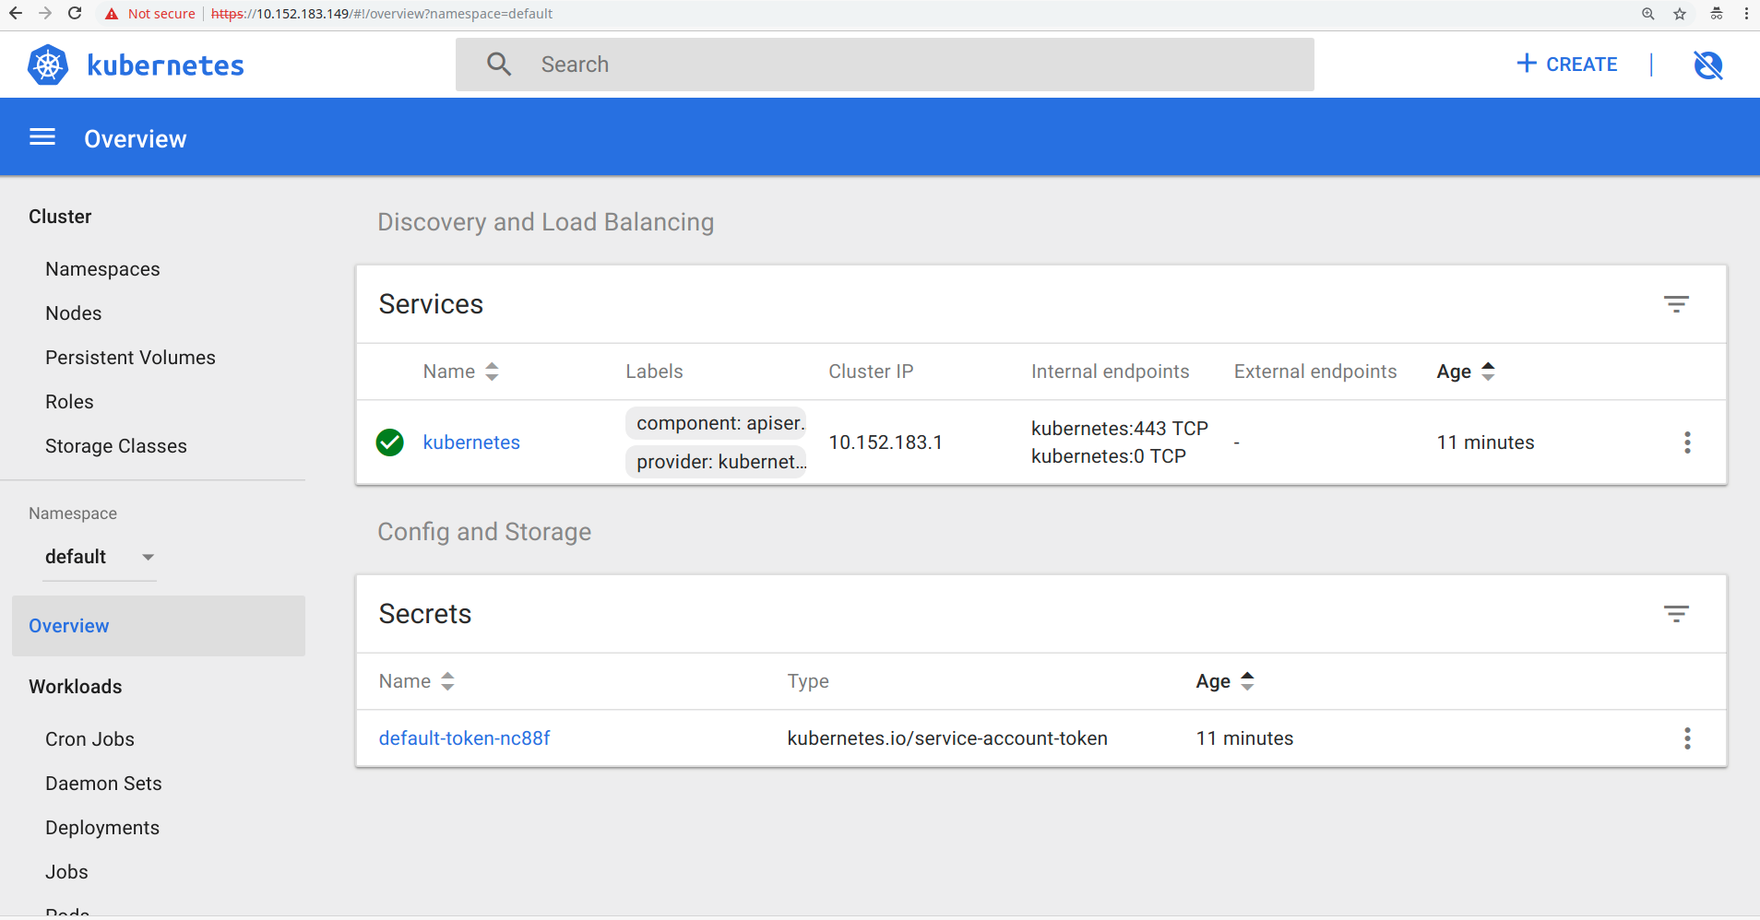
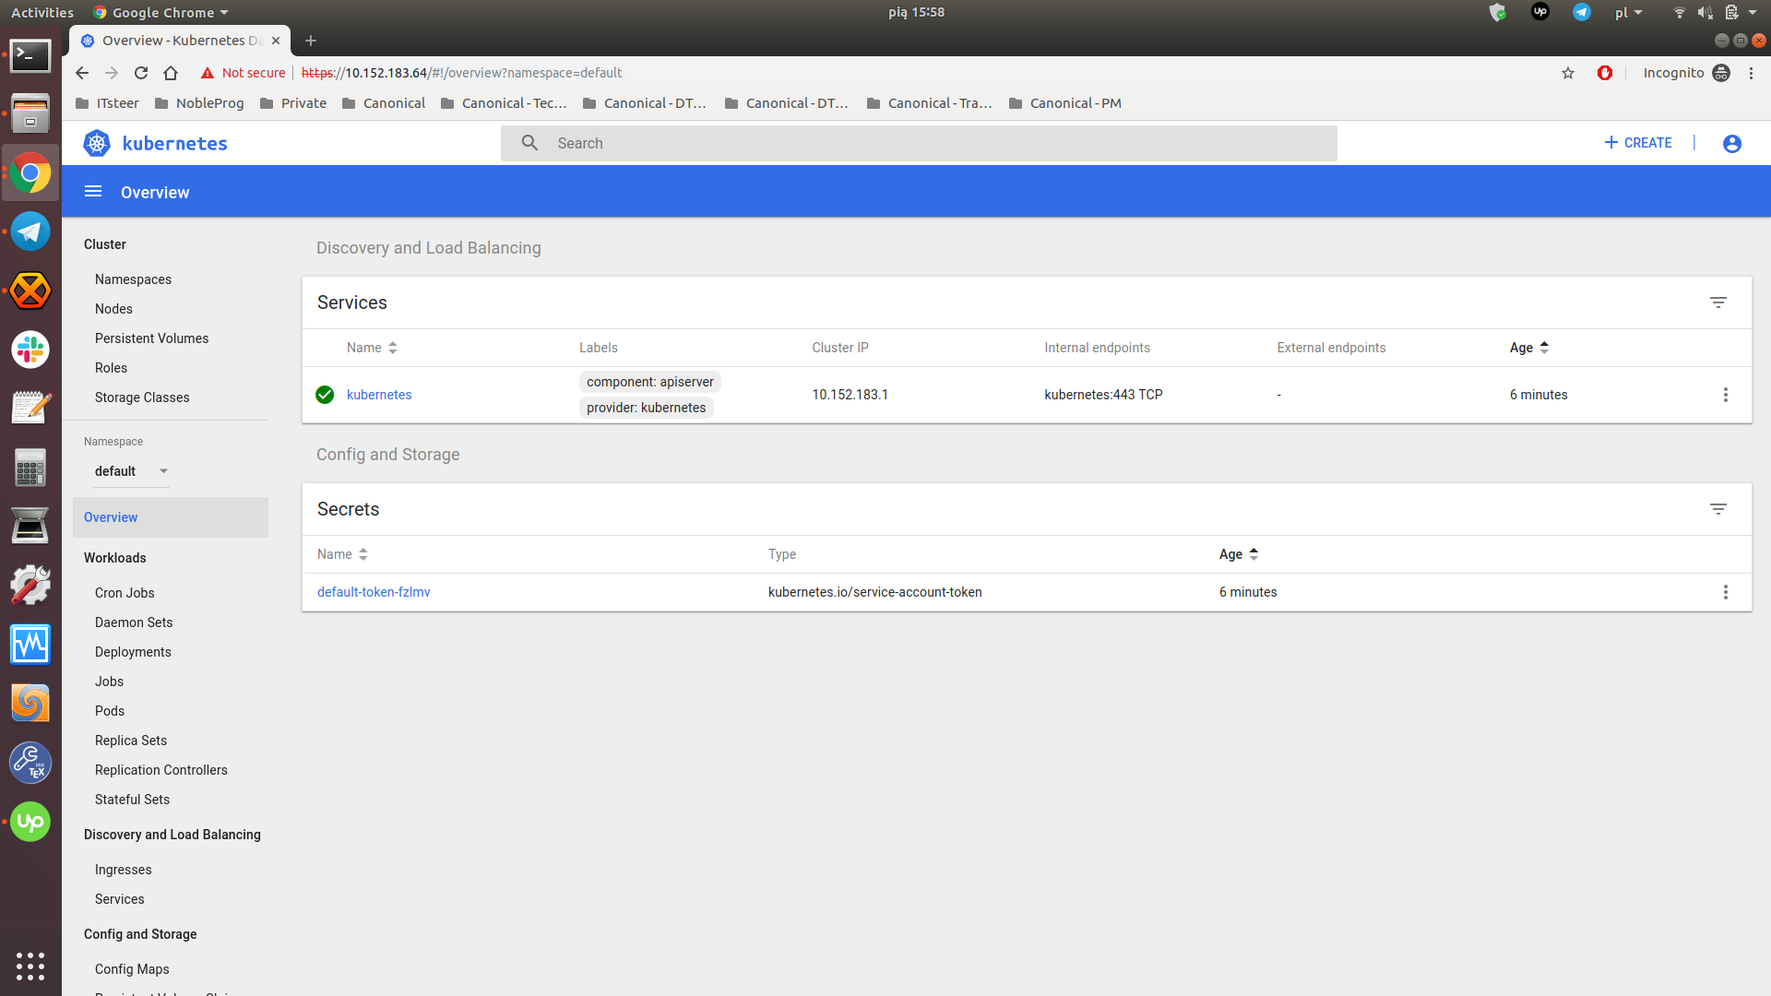
Update 'install-a-local-kubernetes-with-microk8s' tutorial
This patchset updates the 'install-a-local-kubernetes-with-microk8s'
tutorial by introducing some changes in the text and updating the
links.

diff --git a/tutorials/containers/install-a-local-kubernetes-with-microk8s/install-a-local-kubernetes-with-microk8s.md b/tutorials/containers/install-a-local-kubernetes-with-microk8s/install-a-local-kubernetes-with-microk8s.md
@@ -1,6 +1,6 @@
 ---
 id: install-a-local-kubernetes-with-microk8s
-summary: Get a local Kubernetes on your workstation with microk8s. Possibly the fastest path to this great open-source orchestration system, Kubernetes.
+summary: Get a local Kubernetes on your workstation or edge device with microk8s. Possibly the fastest path to this great open-source orchestration system, Kubernetes.
 categories: containers
 tags: kubernetes, beginner, container, microk8s
 difficulty: 3
@@ -17,12 +17,12 @@ feedback_url: https://github.com/ubuntu/microk8s/issues/
 
 ### What is Kubernetes
 
-[Kubernetes][kubernetes] clusters host containerised applications in a reliable and scalable way. Having devops in mind, Kubernetes makes maintenance tasks such as upgrades dead simple.
+[Kubernetes][kubernetes] clusters host containerised applications in a reliable and scalable way. Having DevOps in mind, Kubernetes makes maintenance tasks such as upgrades dead simple.
 
 
 ### What is MicroK8s
 
-[MicroK8s][microk8s] is a [CNCF certified][cncf-cert] upstream Kubernetes deployment that runs entirely in your workstation. Being a [snap][snap] it runs all Kubernetes services natively (i.e. no virtual machines) while packing the entire set of libraries and binaries needed. Installation is limited by how fast you can download a couple of hundred megabytes and the removal of MicroK8s leaves nothing behind.
+[MicroK8s][microk8s] is a [CNCF certified][cncf-cert] upstream Kubernetes deployment that runs entirely on your workstation or edge device. Being a [snap][snap] it runs all Kubernetes services natively (i.e. no virtual machines) while packing the entire set of libraries and binaries needed. Installation is limited by how fast you can download a couple of hundred megabytes and the removal of MicroK8s leaves nothing behind.
 
 ### In this tutorial you’ll learn how to...
 
@@ -33,54 +33,64 @@ feedback_url: https://github.com/ubuntu/microk8s/issues/
 
 ### You will only need ...
 
-* A machine with Ubuntu
+* A machine with Linux
 
 
 
 ## Deploying MicroK8s
 Duration: 3:00
 
-The quickest way to get started is to install MicroK8s directly from the [snap store][microk8s-snap] by clicking the "Install" button.
+If you are using Ubuntu, the quickest way to get started is to install MicroK8s directly from the [snap store][microk8s-snap] by clicking the "Install" button.
  
-Using the command line, we can install MicroK8s and let it update to the latest stable upstream Kubernetes release with:
+However, you can also install MicroK8s from the command line:
 
 ```bash
 sudo snap install microk8s --classic
 ```
 
-[MicroK8s][microk8s] is a snap and as such it is frequently updated to each release of Kubernetes. To follow a specific upstream release series we can select a [channel][snap-channels] during installation. For example, to follow the v1.14 series:
+If you are using other Linux distribution, you have to install snapd firt. Refer to [Snapd documentation][snapd-documentation] for more information on installing snapd on your Linux distribution.
+
+[MicroK8s][microk8s] is a snap and as such it is frequently updated to each release of Kubernetes. To follow a specific upstream release series we can select a [channel][snap-channels] during installation. For example, to follow the v1.15 series:
 
 ```bash
-sudo snap install microk8s --classic --channel=1.14/stable
+sudo snap install microk8s --classic --channel=1.15/stable
 ```
 
 Channels are made up of a track and an expected level of MicroK8s' stability. Try `snap info microk8s` to see what versions are currently published. At the time of this writing we have:
 ```bash
 channels:
-  stable:         v1.14.0  2019-03-28 (492) 214MB classic
-  candidate:      v1.14.1  2019-04-15 (522) 214MB classic
-  beta:           v1.14.1  2019-04-15 (522) 214MB classic
-  edge:           v1.14.1  2019-04-12 (522) 214MB classic
-  1.14/stable:    v1.14.0  2019-03-28 (491) 214MB classic
-  1.14/candidate: v1.14.1  2019-04-15 (521) 214MB classic
-  1.14/beta:      v1.14.1  2019-04-15 (521) 214MB classic
-  1.14/edge:      v1.14.1  2019-04-12 (521) 214MB classic
-  1.13/stable:    v1.13.4  2019-04-03 (438) 229MB classic
-  1.13/candidate: v1.13.5  2019-04-05 (493) 237MB classic
-  1.13/beta:      v1.13.5  2019-04-05 (493) 237MB classic
-  1.13/edge:      v1.13.5  2019-04-01 (493) 237MB classic
-  1.12/stable:    v1.12.7  2019-04-14 (504) 259MB classic
-  1.12/candidate: v1.12.7  2019-04-05 (504) 259MB classic
-  1.12/beta:      v1.12.7  2019-04-05 (504) 259MB classic
-  1.12/edge:      v1.12.7  2019-04-03 (504) 259MB classic
-  1.11/stable:    v1.11.9  2019-04-10 (495) 252MB classic
-  1.11/candidate: v1.11.9  2019-04-05 (495) 252MB classic
-  1.11/beta:      v1.11.9  2019-04-05 (495) 252MB classic
-  1.11/edge:      v1.11.9  2019-04-01 (495) 252MB classic
-  1.10/stable:    v1.10.13 2019-02-25 (411) 200MB classic
-  1.10/candidate: v1.10.13 2019-02-18 (411) 200MB classic
-  1.10/beta:      v1.10.13 2019-02-18 (411) 200MB classic
-  1.10/edge:      v1.10.13 2019-04-04 (506) 208MB classic
+  stable:         v1.15.2         2019-08-05 (743) 192MB classic
+  candidate:      v1.15.2         2019-08-05 (743) 192MB classic
+  beta:           v1.15.2         2019-08-05 (743) 192MB classic
+  edge:           v1.15.2         2019-08-08 (762) 171MB classic
+  1.16/stable:    –                                      
+  1.16/candidate: –                                      
+  1.16/beta:      –                                      
+  1.16/edge:      v1.16.0-alpha.2 2019-08-02 (733) 193MB classic
+  1.15/stable:    v1.15.2         2019-08-06 (745) 192MB classic
+  1.15/candidate: v1.15.2         2019-08-06 (745) 192MB classic
+  1.15/beta:      v1.15.2         2019-08-06 (745) 192MB classic
+  1.15/edge:      v1.15.2         2019-08-08 (763) 171MB classic
+  1.14/stable:    v1.14.5         2019-08-06 (744) 217MB classic
+  1.14/candidate: v1.14.5         2019-08-06 (744) 217MB classic
+  1.14/beta:      v1.14.5         2019-08-06 (744) 217MB classic
+  1.14/edge:      v1.14.5         2019-08-05 (744) 217MB classic
+  1.13/stable:    v1.13.6         2019-06-06 (581) 237MB classic
+  1.13/candidate: v1.13.6         2019-05-09 (581) 237MB classic
+  1.13/beta:      v1.13.6         2019-05-09 (581) 237MB classic
+  1.13/edge:      v1.13.7         2019-06-06 (625) 244MB classic
+  1.12/stable:    v1.12.9         2019-06-06 (612) 259MB classic
+  1.12/candidate: v1.12.9         2019-06-04 (612) 259MB classic
+  1.12/beta:      v1.12.9         2019-06-04 (612) 259MB classic
+  1.12/edge:      v1.12.9         2019-05-28 (612) 259MB classic
+  1.11/stable:    v1.11.10        2019-05-10 (557) 258MB classic
+  1.11/candidate: v1.11.10        2019-05-02 (557) 258MB classic
+  1.11/beta:      v1.11.10        2019-05-02 (557) 258MB classic
+  1.11/edge:      v1.11.10        2019-05-01 (557) 258MB classic
+  1.10/stable:    v1.10.13        2019-04-22 (546) 222MB classic
+  1.10/candidate: v1.10.13        2019-04-22 (546) 222MB classic
+  1.10/beta:      v1.10.13        2019-04-22 (546) 222MB classic
+  1.10/edge:      v1.10.13        2019-04-22 (546) 222MB classic
 ```
 
 
@@ -95,12 +105,12 @@ sudo ufw default allow routed
 ## Enable addons
 Duration: 2:00
 
-By default we get a barebones upstream Kubernetes. Additional services such as kube-dns and dashboard can be run using the `microk8s.enable` command:
+By default we get a barebones upstream Kubernetes. Additional services, such as dashboard or kube-dns, can be enabled by running the `microk8s.enable` command:
 ```bash
-microk8s.enable dns dashboard
+microk8s.enable dashboard dns
 ```
 
-These addons can be disabled at anytime using the disable command
+These addons can be disabled at anytime by running the `microk8s.disable` command:
 ```bash
 microk8s.disable dashboard dns
 ```
@@ -108,7 +118,7 @@ microk8s.disable dashboard dns
 With `microk8s.status` you can see the list of available addons and the ones currently enabled.
 
 ### List of the most important addons
- - dns: Deploy DNS. This addon may be required by others thus we recommend you always enable it.
+ - dns: Deploy DNS. This addon may be required by others, thus we recommend you always enable it.
  - dashboard: Deploy kubernetes dashboard as well as grafana and influxdb.
  - storage: Create a default storage class. This storage class makes use of the hostpath-provisioner pointing to a directory on the host.
  - ingress: Create an ingress controller.
@@ -124,39 +134,39 @@ Now that we have enabled the dns and dashboard addons we can access the availabl
 ```
 > microk8s.kubectl get all --all-namespaces
 NAMESPACE     NAME                                                  READY   STATUS    RESTARTS   AGE
-kube-system   pod/coredns-f7867546d-mq2js                           1/1     Running   0          19m
-kube-system   pod/heapster-v1.5.2-844b564688-8dk7b                  4/4     Running   0          18m
-kube-system   pod/kubernetes-dashboard-7d75c474bb-mfspz             1/1     Running   0          19m
-kube-system   pod/monitoring-influxdb-grafana-v4-6b6954958c-xbh2z   2/2     Running   0          19m
+kube-system   pod/coredns-f7867546d-zb9t5                           1/1     Running   0          3m25s
+kube-system   pod/heapster-v1.5.2-844b564688-5bpzs                  4/4     Running   0          64s
+kube-system   pod/kubernetes-dashboard-7d75c474bb-jcglw             1/1     Running   0          3m19s
+kube-system   pod/monitoring-influxdb-grafana-v4-6b6954958c-nc6bq   2/2     Running   0          3m19s
 
 
 NAMESPACE     NAME                           TYPE        CLUSTER-IP       EXTERNAL-IP   PORT(S)                  AGE
-default       service/kubernetes             ClusterIP   10.152.183.1     <none>        443/TCP                  19h
-kube-system   service/heapster               ClusterIP   10.152.183.222   <none>        80/TCP                   19m
-kube-system   service/kube-dns               ClusterIP   10.152.183.10    <none>        53/UDP,53/TCP,9153/TCP   19m
-kube-system   service/kubernetes-dashboard   ClusterIP   10.152.183.147   <none>        443/TCP                  19m
-kube-system   service/monitoring-grafana     ClusterIP   10.152.183.104   <none>        80/TCP                   19m
-kube-system   service/monitoring-influxdb    ClusterIP   10.152.183.118   <none>        8083/TCP,8086/TCP        19m
+default       service/kubernetes             ClusterIP   10.152.183.1     <none>        443/TCP                  3m34s
+kube-system   service/heapster               ClusterIP   10.152.183.7     <none>        80/TCP                   3m19s
+kube-system   service/kube-dns               ClusterIP   10.152.183.10    <none>        53/UDP,53/TCP,9153/TCP   3m25s
+kube-system   service/kubernetes-dashboard   ClusterIP   10.152.183.64    <none>        443/TCP                  3m19s
+kube-system   service/monitoring-grafana     ClusterIP   10.152.183.3     <none>        80/TCP                   3m19s
+kube-system   service/monitoring-influxdb    ClusterIP   10.152.183.203   <none>        8083/TCP,8086/TCP        3m19s
 
 
 NAMESPACE     NAME                                             READY   UP-TO-DATE   AVAILABLE   AGE
-kube-system   deployment.apps/coredns                          1/1     1            1           19m
-kube-system   deployment.apps/heapster-v1.5.2                  1/1     1            1           19m
-kube-system   deployment.apps/kubernetes-dashboard             1/1     1            1           19m
-kube-system   deployment.apps/monitoring-influxdb-grafana-v4   1/1     1            1           19m
+kube-system   deployment.apps/coredns                          1/1     1            1           3m25s
+kube-system   deployment.apps/heapster-v1.5.2                  1/1     1            1           3m19s
+kube-system   deployment.apps/kubernetes-dashboard             1/1     1            1           3m19s
+kube-system   deployment.apps/monitoring-influxdb-grafana-v4   1/1     1            1           3m19s
 
 NAMESPACE     NAME                                                        DESIRED   CURRENT   READY   AGE
-kube-system   replicaset.apps/coredns-f7867546d                           1         1         1       19m
-kube-system   replicaset.apps/heapster-v1.5.2-6b794f77c8                  0         0         0       19m
-kube-system   replicaset.apps/heapster-v1.5.2-6f5d55456                   0         0         0       18m
-kube-system   replicaset.apps/heapster-v1.5.2-844b564688                  1         1         1       18m
-kube-system   replicaset.apps/kubernetes-dashboard-7d75c474bb             1         1         1       19m
-kube-system   replicaset.apps/monitoring-influxdb-grafana-v4-6b6954958c   1         1         1       19m
+kube-system   replicaset.apps/coredns-f7867546d                           1         1         1       3m25s
+kube-system   replicaset.apps/heapster-v1.5.2-6b794f77c8                  0         0         0       3m19s
+kube-system   replicaset.apps/heapster-v1.5.2-6f5d55456                   0         0         0       84s
+kube-system   replicaset.apps/heapster-v1.5.2-844b564688                  1         1         1       64s
+kube-system   replicaset.apps/kubernetes-dashboard-7d75c474bb             1         1         1       3m19s
+kube-system   replicaset.apps/monitoring-influxdb-grafana-v4-6b6954958c   1         1         1       3m19s
 ```
 
 ### Kubernetes dashboard
 
-As we see above the kubernetes-dashboard service in the kube-system namespace has a ClusterIP of `10.152.183.147` and listens on `443`. The ClusterIP is randomly assigned so if you follow these steps on your host, make sure you check the IP you got. Point your browser to `https://10.152.183.147:443` and you will see the kubernetes dashboard UI. To access the dashboard use the default token retrieved with:
+As we see above the kubernetes-dashboard service in the kube-system namespace has a ClusterIP of `10.152.183.64` and listens on TCP port `443`. The ClusterIP is randomly assigned, so if you follow these steps on your host, make sure you check the IP adress you got. Point your browser to `https://10.152.183.64:443` and you will see the kubernetes dashboard UI. To access the dashboard use the default token retrieved with:
 
 ```
 token=$(microk8s.kubectl -n kube-system get secret | grep default-token | cut -d " " -f1)
@@ -200,42 +210,42 @@ After a few minutes our cluster looks like this:
 ```
 > microk8s.kubectl get all --all-namespaces
 NAMESPACE     NAME                                                  READY   STATUS    RESTARTS   AGE
-default       pod/microbot-7dd47b8fd6-gnkm6                         1/1     Running   0          24s
-default       pod/microbot-7dd47b8fd6-q2wsb                         1/1     Running   0          38s
-kube-system   pod/coredns-f7867546d-mq2js                           1/1     Running   0          23m
-kube-system   pod/heapster-v1.5.2-844b564688-8dk7b                  4/4     Running   0          22m
-kube-system   pod/kubernetes-dashboard-7d75c474bb-mfspz             1/1     Running   0          23m
-kube-system   pod/monitoring-influxdb-grafana-v4-6b6954958c-xbh2z   2/2     Running   0          23m
+default       pod/microbot-7dd47b8fd6-4rzt6                         1/1     Running   0          46s
+default       pod/microbot-7dd47b8fd6-xr49r                         1/1     Running   0          39s
+kube-system   pod/coredns-f7867546d-zb9t5                           1/1     Running   0          10m
+kube-system   pod/heapster-v1.5.2-844b564688-5bpzs                  4/4     Running   0          8m22s
+kube-system   pod/kubernetes-dashboard-7d75c474bb-jcglw             1/1     Running   0          10m
+kube-system   pod/monitoring-influxdb-grafana-v4-6b6954958c-nc6bq   2/2     Running   0          10m
 
 
 NAMESPACE     NAME                           TYPE        CLUSTER-IP       EXTERNAL-IP   PORT(S)                  AGE
-default       service/kubernetes             ClusterIP   10.152.183.1     <none>        443/TCP                  19h
-default       service/microbot-service       NodePort    10.152.183.24    <none>        80:32286/TCP             9s
-kube-system   service/heapster               ClusterIP   10.152.183.222   <none>        80/TCP                   23m
-kube-system   service/kube-dns               ClusterIP   10.152.183.10    <none>        53/UDP,53/TCP,9153/TCP   23m
-kube-system   service/kubernetes-dashboard   ClusterIP   10.152.183.147   <none>        443/TCP                  23m
-kube-system   service/monitoring-grafana     ClusterIP   10.152.183.104   <none>        80/TCP                   23m
-kube-system   service/monitoring-influxdb    ClusterIP   10.152.183.118   <none>        8083/TCP,8086/TCP        23m
+default       service/kubernetes             ClusterIP   10.152.183.1     <none>        443/TCP                  10m
+default       service/microbot-service       NodePort    10.152.183.69    <none>        80:32648/TCP             25s
+kube-system   service/heapster               ClusterIP   10.152.183.7     <none>        80/TCP                   10m
+kube-system   service/kube-dns               ClusterIP   10.152.183.10    <none>        53/UDP,53/TCP,9153/TCP   10m
+kube-system   service/kubernetes-dashboard   ClusterIP   10.152.183.64    <none>        443/TCP                  10m
+kube-system   service/monitoring-grafana     ClusterIP   10.152.183.3     <none>        80/TCP                   10m
+kube-system   service/monitoring-influxdb    ClusterIP   10.152.183.203   <none>        8083/TCP,8086/TCP        10m
 
 
 NAMESPACE     NAME                                             READY   UP-TO-DATE   AVAILABLE   AGE
-default       deployment.apps/microbot                         2/2     2            2           38s
-kube-system   deployment.apps/coredns                          1/1     1            1           23m
-kube-system   deployment.apps/heapster-v1.5.2                  1/1     1            1           23m
-kube-system   deployment.apps/kubernetes-dashboard             1/1     1            1           23m
-kube-system   deployment.apps/monitoring-influxdb-grafana-v4   1/1     1            1           23m
+default       deployment.apps/microbot                         2/2     2            2           46s
+kube-system   deployment.apps/coredns                          1/1     1            1           10m
+kube-system   deployment.apps/heapster-v1.5.2                  1/1     1            1           10m
+kube-system   deployment.apps/kubernetes-dashboard             1/1     1            1           10m
+kube-system   deployment.apps/monitoring-influxdb-grafana-v4   1/1     1            1           10m
 
 NAMESPACE     NAME                                                        DESIRED   CURRENT   READY   AGE
-default       replicaset.apps/microbot-7dd47b8fd6                         2         2         2       38s
-kube-system   replicaset.apps/coredns-f7867546d                           1         1         1       23m
-kube-system   replicaset.apps/heapster-v1.5.2-6b794f77c8                  0         0         0       23m
-kube-system   replicaset.apps/heapster-v1.5.2-6f5d55456                   0         0         0       22m
-kube-system   replicaset.apps/heapster-v1.5.2-844b564688                  1         1         1       22m
-kube-system   replicaset.apps/kubernetes-dashboard-7d75c474bb             1         1         1       23m
-kube-system   replicaset.apps/monitoring-influxdb-grafana-v4-6b6954958c   1         1         1       23m
+default       replicaset.apps/microbot-7dd47b8fd6                         2         2         2       46s
+kube-system   replicaset.apps/coredns-f7867546d                           1         1         1       10m
+kube-system   replicaset.apps/heapster-v1.5.2-6b794f77c8                  0         0         0       10m
+kube-system   replicaset.apps/heapster-v1.5.2-6f5d55456                   0         0         0       8m42s
+kube-system   replicaset.apps/heapster-v1.5.2-844b564688                  1         1         1       8m22s
+kube-system   replicaset.apps/kubernetes-dashboard-7d75c474bb             1         1         1       10m
+kube-system   replicaset.apps/monitoring-influxdb-grafana-v4-6b6954958c   1         1         1       10m
 ```
 
-At the very top we have the microbot pods, `service/microbot-service` is the second in the services list. Our service has a ClusterIP through which we can access it. Notice however that our service is of type [NodePort][nodeport]. This means that our deployment is also available on a port on the host machine; that port is randomly selected and in this case it happens to be `32286`. All we need to do is to point our browser to `http://localhost:32286`.
+At the very top we have the microbot pods, `service/microbot-service` is the second in the services list. Our service has a ClusterIP through which we can access it. Notice, however, that our service is of type [NodePort][nodeport]. This means that our deployment is also available on a port on the host machine; that port is randomly selected and in this case it happens to be `32648`. All we need to do is to point our browser to `http://localhost:32648`.
 
 ![Microbot](images/microbot.png)
 
@@ -245,13 +255,13 @@ Duration: 5:00
 
 There are many commands that ship with MicroK8s. We've only seen the essential ones in this tutorial. Explore the others at your own convenience:
 
- - microk8s.status: Provides an overview of the MicroK8s state (running/not running) as well as the set of enabled addons
+ - microk8s.status: Provides an overview of the MicroK8s state (running / not running) as well as the set of enabled addons
  - microk8s.enable: Enables an addon
  - microk8s.disable: Disables an addon
  - microk8s.kubectl: Interact with kubernetes
  - microk8s.config: Shows the kubernetes config file
- - microk8s.istioctl: Interact with the istio services. Needs the istio addon to be enabled
- - microk8s.inspect: Performs a quick inspectio of the MicroK8s intallation. Offers hints on what 
+ - microk8s.istioctl: Interact with the istio services; needs the istio addon to be enabled
+ - microk8s.inspect: Performs a quick inspection of the MicroK8s intallation
  - microk8s.reset: Resets the infrastructure to a clean state
  - microk8s.stop: Stops all kubernetes services
  - microk8s.start: Starts MicroK8s after it is being stopped
@@ -260,7 +270,7 @@ There are many commands that ship with MicroK8s. We've only seen the essential o
 ## That’s all folks!
 Duration: 1:00
 
-Congratulations! You’ve made it!
+Congratulations! You have made it!
 
 Until next time, stop all MicroK8s services:
 ```bash
@@ -269,9 +279,11 @@ microk8s.stop
 
 ### Where to go from here?
 
-* Discover [MicroK8s][microk8s]
-* Tell us what you think and [file feature requests][microk8s-issues]
-* Learn more about [Kubernetes][k8s-docs]
+* Learn more about [MicroK8s][microk8s]
+* Tell us what you think and [fill in feature requests][microk8s-issues]
+* Discover Kubernetes opportunities with [Canonical][ubuntu-kubernetes]
+* Try [Charmed Kubernetes][charmed-kubernetes]
+* Contact [us][contact]
 
 
 <!-- LINKS -->
@@ -284,3 +296,7 @@ microk8s.stop
 [microk8s-snap]: https://snapcraft.io/microk8s
 [nodeport]: https://kubernetes.io/docs/concepts/services-networking/service/#nodeport
 [snap-channels]: https://docs.snapcraft.io/channels/551
+[ubuntu-kubernetes]: https://ubuntu.com/kubernetes
+[charmed-kubernetes]: https://tutorials.ubuntu.com/tutorial/get-started-canonical-kubernetes#0
+[contact]: https://ubuntu.com/contact-us
+[snapd-documentation]: https://snapcraft.io/docs/installing-snapd
